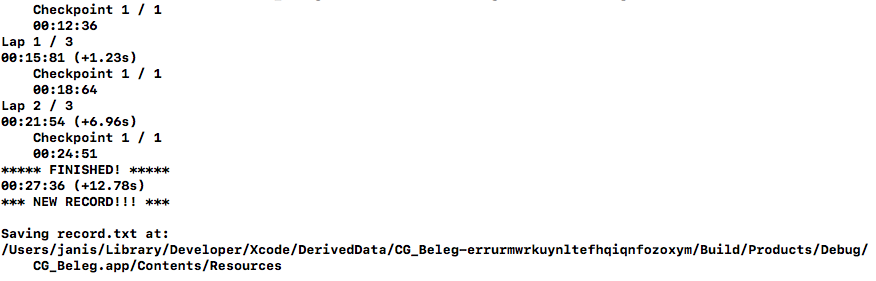
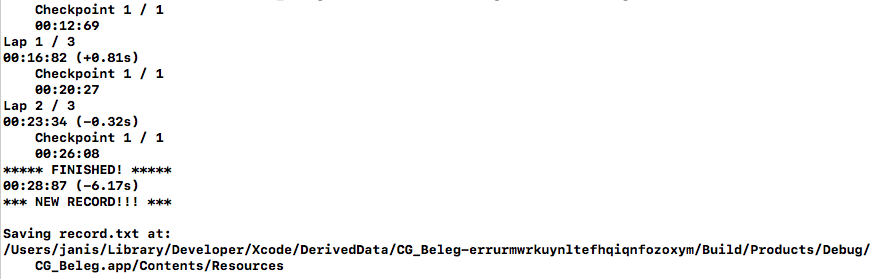
Fix wrong console output of deltaTime

Changed region(s): [[0.0, 0.0, 0.2158, 0.7455], [0.0, 0.8029, 1.0, 0.9749]]

diff --git a/source/CGTutorial/source/main.cpp b/source/CGTutorial/source/main.cpp
@@ -543,7 +543,7 @@ void checkpointCollisionDetection(){
                 printf("%02d:%02d:%02d ", min, sec, mil);
                 
                 if(recordTimestamps.size() >= currentLap && i == 0 ){
-                    float deltaTime = currentTime - recordTimestamps.at(i);
+                    float deltaTime = currentTime - recordTimestamps.at(currentLap - 1);
                     printf("(%+2.2fs)", deltaTime);
                 }
                 cout << "\n";
